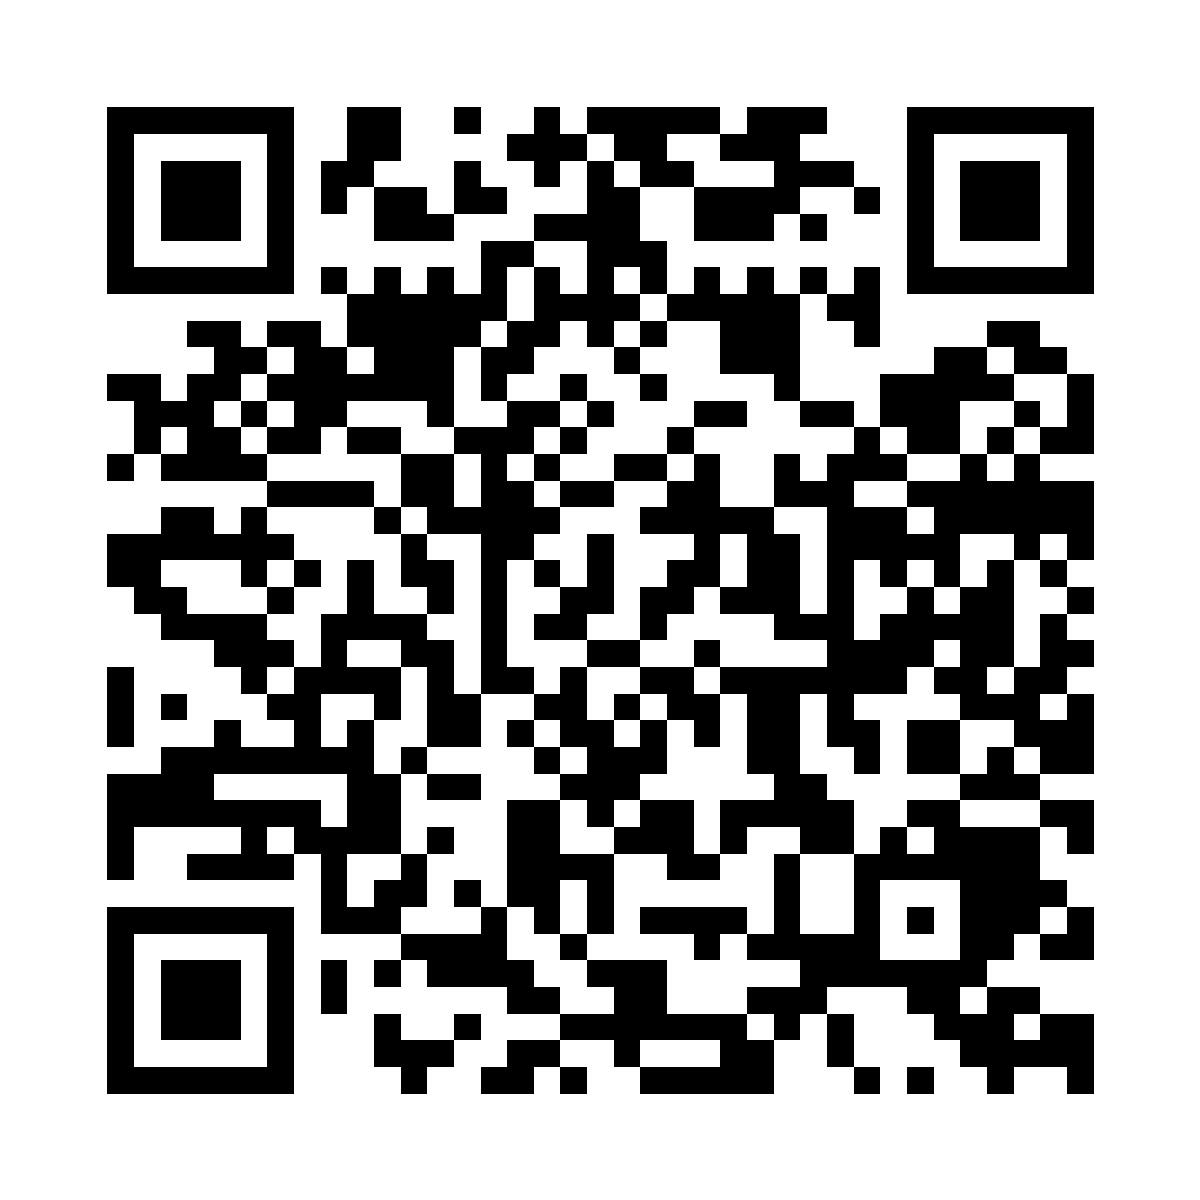
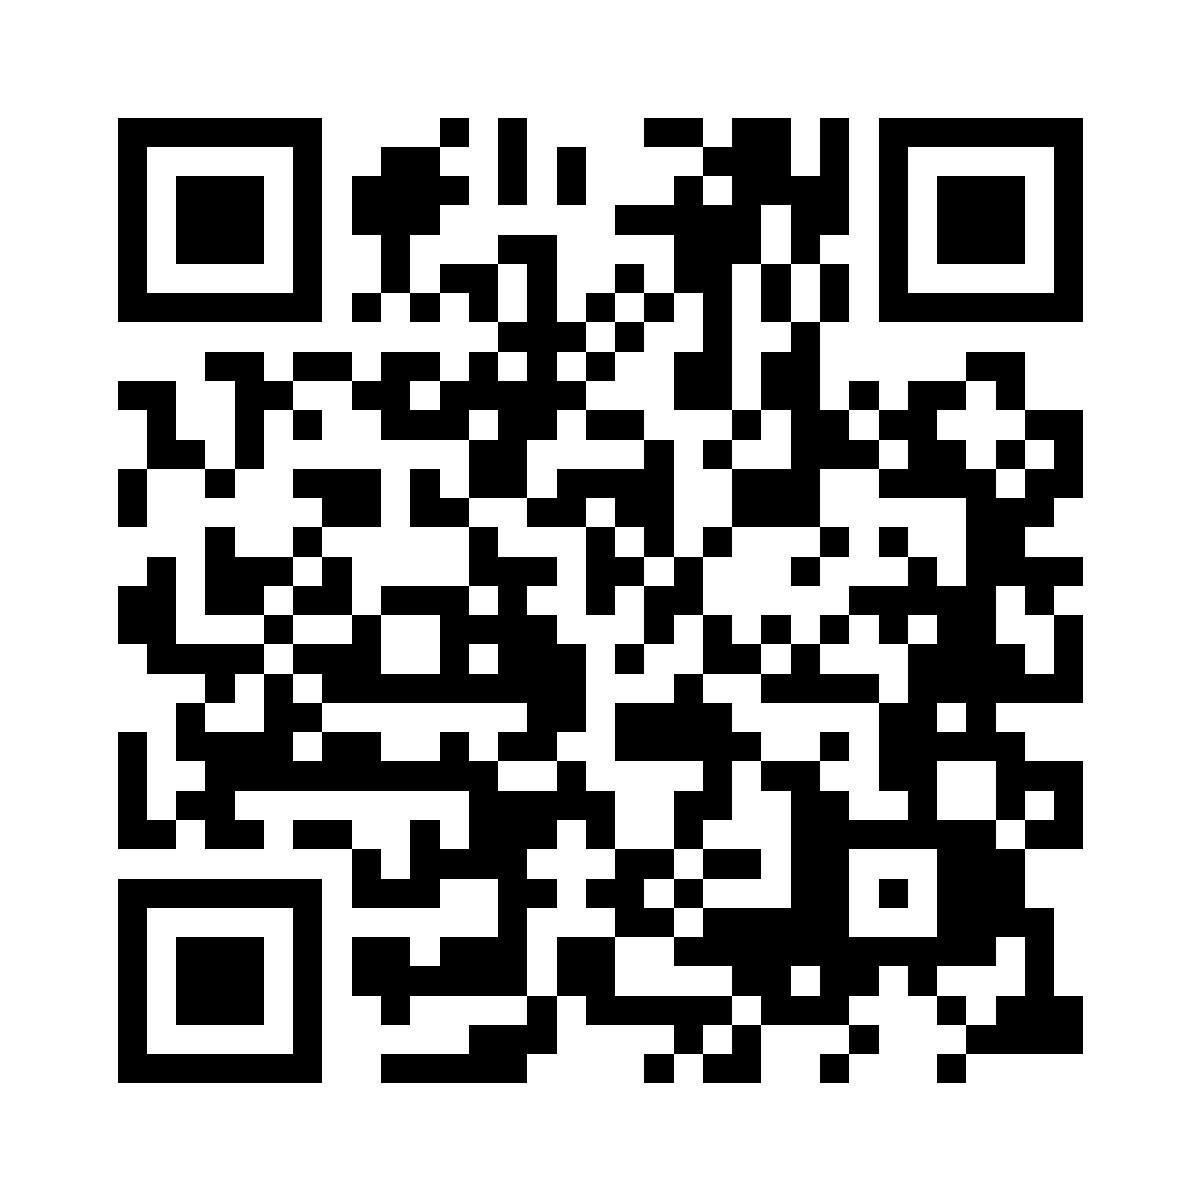
URLs say relay: relay.vercel.app, the trifold QR, and the new contract ID in the docs (#26)

diff --git a/docs/one-pager.md b/docs/one-pager.md
@@ -49,7 +49,7 @@ Distributors pay, never shops: 1.5% to be paid instantly on pay-in-7-days sales 
 Target: 120 to 150 words.
 
 <!-- q6 -->
-Rohan studies FARM (Financial Analysis and Risk Management), which covers the credit and risk side. Three engineers (software, two computer) built and tested our public contract, CAPQ6ZDDWDS3OE42BM5LM3M7YEQ3TJ7IJZ5ZT7A2Z3RTSI35OJKV3I23 on Stellar testnet, and the app: https://tiendas-stellar.vercel.app. Then we asked for help: 2 advisor calls, and emails to 4 banks and a supermarket chain in El Salvador. We are first-year Waterloo students and none of us has run a shop, so we learned this from them.
+Rohan studies FARM (Financial Analysis and Risk Management), which covers the credit and risk side. Three engineers (software, two computer) built and tested our public contract, CDHDZX7VVOPY7TNKA744EQP24BPO5MJIZQOGJGYNGA7N7ZIZWQBQMYUR on Stellar testnet, and the app: https://relay.vercel.app. Then we asked for help: 2 advisor calls, and emails to 4 banks and a supermarket chain in El Salvador. We are first-year Waterloo students and none of us has run a shop, so we learned this from them.
 
 We also say the hardest part plainly. Risk #1: turning cash into digital dollars isn't solved in El Salvador, and our demo simulates it; MoneyGram lists cash-out points in El Salvador but, as far as we found, not cash-in. Our plan: shops repay weekly like a bill at a bank or payment point, and a licensed partner converts in bulk and does KYC on shops and KYB on distributors.
 <!-- /q6 -->
@@ -81,7 +81,7 @@ Every number in answers 4 to 6. "Confirm" means Rohan checks it against his fina
 | four first-year students | 6 | Context header | True as of Nov 10. |
 | Rohan studies FARM (Financial Analysis and Risk Management) | 6 | Yahya's review comment on #64 (Nov 10). Context says only "FARM". | Rohan to confirm the wording. |
 | Three engineers (software, two computer) built and tested the contract and app | 6 | Yahya's review comment on #64; context header lists the programs | Yahya to confirm this fairly describes all three. |
-| Contract `CAPQ6ZDD…` and https://tiendas-stellar.vercel.app | 6 | `config/testnet.json` (`contracts.routeLedger`) and the README table; the URL returned HTTP 200 on Nov 11 | Verified. `CANWPJKT…` in the same file is the test USDC token, not our contract. |
+| Contract `CDHDZX7V…` (redeployed Nov 12) and https://relay.vercel.app | 6 | `config/testnet.json` (`contracts.routeLedger`) and the README table; the URL returned HTTP 200 on Nov 11 | Verified. `CANWPJKT…` in the same file is the test USDC token, not our contract. |
 | 2 advisor calls | 6 | `docs/research.md` "Advisor calls (Nov 9)", PR #72 (#17); same section in PR #89 | Matches the log (two advisors, both calls Mon Nov 9); checked by Claude, 12 Nov. Neither PR is merged. |
 | emails to 4 banks and a supermarket chain in El Salvador | 6 | `docs/research.md` "Partner outreach", PR #89 (#10): five rows dated Nov 10 (Promerica, Abank, Integral, Davivienda, Súper Selectos) | Checked by Claude, 12 Nov. The Nov 11 email to a Davivienda colleague is not counted again. The log's own pitch line says "6 banks and cash-in companies", which counts that email as a sixth organisation; recount if Rohan sends more tonight. PR #89 is not merged. |
 | Cut: shop-owner and distributor conversations (#7), prototype walkthroughs (#30) | 6 | No count in issues #7, #30 or any `docs/research.md` | Removed Nov 12 because no number is logged. Add one back only if it is logged before submit. |

diff --git a/docs/deck-outline.md b/docs/deck-outline.md
@@ -80,7 +80,7 @@ For slide 3 and the trifold's middle panel. They have to come from the live app 
 **When:** after the Thursday redeploy (#52), because the redeploy gives a new contract and new demo invoices. Best in the same sitting as Yahya's video (#35), so the demo is only changed once. Shot 2 makes a real testnet payment with test dollars and changes what the video shows (see "Side effects").
 
 **Setup (Chrome on a Mac)**
-1. Open https://tiendas-stellar.vercel.app. Check the testnet banner is at the top and the page isn't an old preview.
+1. Open https://relay.vercel.app. Check the testnet banner is at the top and the page isn't an old preview.
 2. Open Chrome DevTools (Cmd+Opt+I), then the device toolbar (Cmd+Shift+M). In the toolbar choose "Responsive" and type width **360** and height **740**. Click the toolbar's three dots, choose "Add device pixel ratio", and set it to **3**.
 3. To capture: three dots in the device toolbar, "Capture screenshot" (not "full size"). It saves only the 360 px phone view, without DevTools or the browser bar, as a PNG in Downloads about 1080 px wide.
 

diff --git a/README.md b/README.md
@@ -4,7 +4,7 @@
 
 Neighbourhood shops (tiendas) in El Salvador pay their suppliers in cash when the truck arrives, and often borrow from loan sharks to buy stock. This app lets a shop pay its supplier in digital dollars, or take the stock now and pay in 7 days with no interest, while a Stellar smart contract keeps the record and enforces the credit rules.
 
-**Live app:** [tiendas-stellar.vercel.app](https://tiendas-stellar.vercel.app) · Built for the Velocity x Stellar challenge (Nov 2026) by Yahya, Jack, Rohan and Ruhaan. Plan and decisions: [docs/context.md](docs/context.md).
+**Live app:** [relay.vercel.app](https://relay.vercel.app) · Built for the Velocity x Stellar challenge (Nov 2026) by Yahya, Jack, Rohan and Ruhaan. Plan and decisions: [docs/context.md](docs/context.md).
 
 ## How it works
 

diff --git a/docs/demo-video.md b/docs/demo-video.md
@@ -51,9 +51,9 @@ so the screen shows $59.10 on $60.00 (and would show $147.75 on $150). Say what 
 
 ## End card
 
-- App: https://tiendas-stellar.vercel.app
-- Contract: `CAPQ6ZDDWDS3OE42BM5LM3M7YEQ3TJ7IJZ5ZT7A2Z3RTSI35OJKV3I23`
-  (https://stellar.expert/explorer/testnet/contract/CAPQ6ZDDWDS3OE42BM5LM3M7YEQ3TJ7IJZ5ZT7A2Z3RTSI35OJKV3I23).
+- App: https://relay.vercel.app
+- Contract: `CDHDZX7VVOPY7TNKA744EQP24BPO5MJIZQOGJGYNGA7N7ZIZWQBQMYUR`
+  (https://stellar.expert/explorer/testnet/contract/CDHDZX7VVOPY7TNKA744EQP24BPO5MJIZQOGJGYNGA7N7ZIZWQBQMYUR).
   If the contract is redeployed (#52), copy the new ID from `config/testnet.json`.
 - **[Product name, #26]**
 
